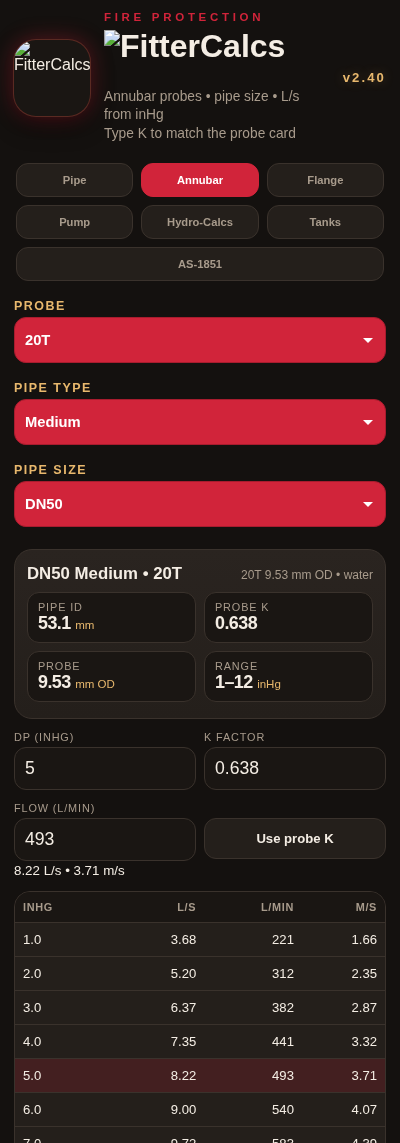
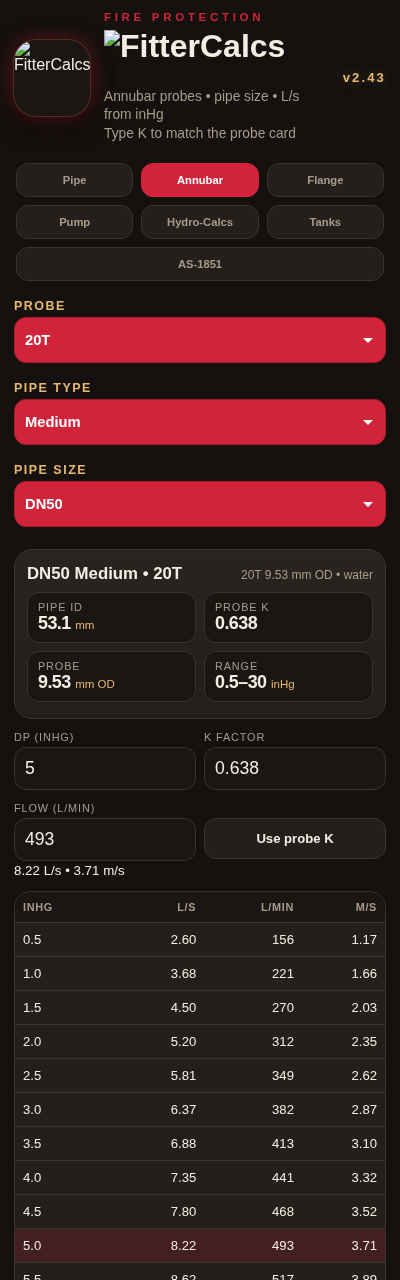
FitterCalcs 2.43

diff --git a/app/src/main/assets/index.html b/app/src/main/assets/index.html
@@ -880,13 +880,13 @@
         <div class="stat"><label>Pipe ID</label><b id="annuId"></b> <small>mm</small></div>
         <div class="stat"><label>Probe K</label><b id="annuKCalc"></b></div>
         <div class="stat"><label>Probe</label><b id="annuProbeOd">9.53</b> <small>mm OD</small></div>
-        <div class="stat"><label>Range</label><b>1–12</b> <small>inHg</small></div>
+        <div class="stat"><label>Range</label><b>0.5–30</b> <small>inHg</small></div>
       </div>
     </section>
     <div class="lookup">
       <div>
         <label for="inHg">DP (inHg)</label>
-        <input id="inHg" type="number" inputmode="decimal" min="1" max="12" step="1" value="5" />
+        <input id="inHg" type="number" inputmode="decimal" min="0.5" max="30" step="0.5" value="5" />
       </div>
       <div>
         <label for="annuKIn">K factor</label>
@@ -922,7 +922,7 @@
       K comes from the <strong>medium steel card Rev 03</strong>: DN50 0.638, DN65 0.617, DN80 0.665, DN90 0.661, DN100 0.672, DN125 0.671, DN150 0.706.
       Light, Heavy, SS 10S, SS 40S (ASME Sch 40 ID), and copper <strong>interpolate that K against mill ID</strong>. Sizes bigger than DN150 hold the DN150 K.
       <strong>3/8″</strong> still uses Diamond II 15/16 formula K. Type a K to match a different card; <strong>Use probe K</strong> puts the table/formula back.
-      Type <strong>flow (L/min)</strong> and the table highlights the next listed <strong>inHg</strong> up (1.73 → 2). Range is <strong>1–12 inHg</strong>. Type inHg to see the flow.
+      Type <strong>flow (L/min)</strong> and the table highlights the next <strong>0.5 inHg</strong> up (1.2 → 1.5). Range is <strong>0.5–30 inHg</strong>. Type inHg to see the flow.
       Steel IDs are <strong>AS 1074-1989 (R2018) Cl 2.3, Tables 2.1–2.3</strong> Light / Medium / Heavy. <strong>Use the laminated chart that shipped with the probe for a certified test.</strong>
     </p>
   </div>
@@ -1382,8 +1382,8 @@
 <script src="fan-calc.js"></script>
 <script src="fan-ui.js"></script>
 <script>
-const APP_VERSION = "2.42";
-const APP_BUILD = 53;
+const APP_VERSION = "2.43";
+const APP_BUILD = 54;
 const FAN_KEY = "fittercalcs-ft";
 function fanOn() {
   try { return localStorage.getItem(FAN_KEY) === "1"; } catch (e) { return false; }
@@ -3351,7 +3351,9 @@ const ANNU_DN_NPS = {
   "50": "2", "65": "2-1/2", "80": "3", "90": "3-1/2",
   "100": "4", "125": "5", "150": "6", "200": "8"
 };
-const ANNU_DP = [1, 2, 3, 4, 5, 6, 7, 8, 9, 10, 11, 12];
+const ANNU_DP_STEP = 0.5;
+const ANNU_DP_MAX = 30;
+const ANNU_DP = Array.from({ length: ANNU_DP_MAX / ANNU_DP_STEP }, (_, i) => (i + 1) * ANNU_DP_STEP);
 const ANNU_K_CARD = [
   [53.1, 0.638],
   [68.9, 0.617],
@@ -3433,11 +3435,16 @@ function inHgFromFlow(idMm, ls, kUsed) {
   return (x * x) / INHG_TO_INH2O;
 }
 function ceilAnnuDp(inHg) {
-  if (!Number.isFinite(inHg) || inHg <= 0) return ANNU_DP[0];
+  const min = ANNU_DP[0];
+  const max = ANNU_DP[ANNU_DP.length - 1];
+  if (!Number.isFinite(inHg) || inHg <= min) return min;
+  if (inHg >= max) return max;
+  const steps = Math.ceil((inHg - 1e-6) / ANNU_DP_STEP);
+  const snapped = steps * ANNU_DP_STEP;
   for (let i = 0; i < ANNU_DP.length; i++) {
-    if (ANNU_DP[i] + 1e-6 >= inHg) return ANNU_DP[i];
+    if (Math.abs(ANNU_DP[i] - snapped) < 1e-6) return ANNU_DP[i];
   }
-  return ANNU_DP[ANNU_DP.length - 1];
+  return max;
 }
 function currentAnnuId() {
   if (DATA[annuKind]) {
@@ -3513,6 +3520,10 @@ function renderAnnu() {
       <td class="${cls}">${r.ms.toFixed(2)}</td>
     </tr>`;
   }).join("");
+  if (annuFromFlow) {
+    const sel = document.querySelector("#annuRows tr.sel");
+    if (sel) sel.scrollIntoView({ block: "nearest" });
+  }
   paintMenu("annuProbeMenu");
   paintMenu("annuPipeMenu");
   paintMenu("annuSizeMenu");

diff --git a/index.html b/index.html
@@ -880,13 +880,13 @@
         <div class="stat"><label>Pipe ID</label><b id="annuId"></b> <small>mm</small></div>
         <div class="stat"><label>Probe K</label><b id="annuKCalc"></b></div>
         <div class="stat"><label>Probe</label><b id="annuProbeOd">9.53</b> <small>mm OD</small></div>
-        <div class="stat"><label>Range</label><b>1–12</b> <small>inHg</small></div>
+        <div class="stat"><label>Range</label><b>0.5–30</b> <small>inHg</small></div>
       </div>
     </section>
     <div class="lookup">
       <div>
         <label for="inHg">DP (inHg)</label>
-        <input id="inHg" type="number" inputmode="decimal" min="1" max="12" step="1" value="5" />
+        <input id="inHg" type="number" inputmode="decimal" min="0.5" max="30" step="0.5" value="5" />
       </div>
       <div>
         <label for="annuKIn">K factor</label>
@@ -922,7 +922,7 @@
       K comes from the <strong>medium steel card Rev 03</strong>: DN50 0.638, DN65 0.617, DN80 0.665, DN90 0.661, DN100 0.672, DN125 0.671, DN150 0.706.
       Light, Heavy, SS 10S, SS 40S (ASME Sch 40 ID), and copper <strong>interpolate that K against mill ID</strong>. Sizes bigger than DN150 hold the DN150 K.
       <strong>3/8″</strong> still uses Diamond II 15/16 formula K. Type a K to match a different card; <strong>Use probe K</strong> puts the table/formula back.
-      Type <strong>flow (L/min)</strong> and the table highlights the next listed <strong>inHg</strong> up (1.73 → 2). Range is <strong>1–12 inHg</strong>. Type inHg to see the flow.
+      Type <strong>flow (L/min)</strong> and the table highlights the next <strong>0.5 inHg</strong> up (1.2 → 1.5). Range is <strong>0.5–30 inHg</strong>. Type inHg to see the flow.
       Steel IDs are <strong>AS 1074-1989 (R2018) Cl 2.3, Tables 2.1–2.3</strong> Light / Medium / Heavy. <strong>Use the laminated chart that shipped with the probe for a certified test.</strong>
     </p>
   </div>
@@ -1382,8 +1382,8 @@
 <script src="fan-calc.js"></script>
 <script src="fan-ui.js"></script>
 <script>
-const APP_VERSION = "2.42";
-const APP_BUILD = 53;
+const APP_VERSION = "2.43";
+const APP_BUILD = 54;
 const FAN_KEY = "fittercalcs-ft";
 function fanOn() {
   try { return localStorage.getItem(FAN_KEY) === "1"; } catch (e) { return false; }
@@ -3351,7 +3351,9 @@ const ANNU_DN_NPS = {
   "50": "2", "65": "2-1/2", "80": "3", "90": "3-1/2",
   "100": "4", "125": "5", "150": "6", "200": "8"
 };
-const ANNU_DP = [1, 2, 3, 4, 5, 6, 7, 8, 9, 10, 11, 12];
+const ANNU_DP_STEP = 0.5;
+const ANNU_DP_MAX = 30;
+const ANNU_DP = Array.from({ length: ANNU_DP_MAX / ANNU_DP_STEP }, (_, i) => (i + 1) * ANNU_DP_STEP);
 const ANNU_K_CARD = [
   [53.1, 0.638],
   [68.9, 0.617],
@@ -3433,11 +3435,16 @@ function inHgFromFlow(idMm, ls, kUsed) {
   return (x * x) / INHG_TO_INH2O;
 }
 function ceilAnnuDp(inHg) {
-  if (!Number.isFinite(inHg) || inHg <= 0) return ANNU_DP[0];
+  const min = ANNU_DP[0];
+  const max = ANNU_DP[ANNU_DP.length - 1];
+  if (!Number.isFinite(inHg) || inHg <= min) return min;
+  if (inHg >= max) return max;
+  const steps = Math.ceil((inHg - 1e-6) / ANNU_DP_STEP);
+  const snapped = steps * ANNU_DP_STEP;
   for (let i = 0; i < ANNU_DP.length; i++) {
-    if (ANNU_DP[i] + 1e-6 >= inHg) return ANNU_DP[i];
+    if (Math.abs(ANNU_DP[i] - snapped) < 1e-6) return ANNU_DP[i];
   }
-  return ANNU_DP[ANNU_DP.length - 1];
+  return max;
 }
 function currentAnnuId() {
   if (DATA[annuKind]) {
@@ -3513,6 +3520,10 @@ function renderAnnu() {
       <td class="${cls}">${r.ms.toFixed(2)}</td>
     </tr>`;
   }).join("");
+  if (annuFromFlow) {
+    const sel = document.querySelector("#annuRows tr.sel");
+    if (sel) sel.scrollIntoView({ block: "nearest" });
+  }
   paintMenu("annuProbeMenu");
   paintMenu("annuPipeMenu");
   paintMenu("annuSizeMenu");

diff --git a/onlyfitters.py b/onlyfitters.py
@@ -17,7 +17,7 @@ from gi.repository import Gdk, GLib, Gtk, WebKit2
 
 APP_ID = "org.onlyfitters.app"
 APP_NAME = "FitterCalcs"
-APP_VERSION = "2.42"
+APP_VERSION = "2.43"
 APP_TITLE = "%s %s" % (APP_NAME, APP_VERSION)
 APP_DIR = Path(__file__).resolve().parent
 HTML = APP_DIR / "index.html"

diff --git a/desktop/fittercalcs.py b/desktop/fittercalcs.py
@@ -11,7 +11,7 @@ from pathlib import Path
 from urllib.parse import quote
 
 APP_NAME = "FitterCalcs"
-APP_VERSION = "2.42"
+APP_VERSION = "2.43"
 
 
 def app_dir():

diff --git a/README.md b/README.md
@@ -12,7 +12,7 @@
 </p>
 
 <p align="center">
-  <strong>Current version: 2.42</strong><br>
+  <strong>Current version: 2.43</strong><br>
   <a href="https://github.com/macski777/fittercalcs/releases/latest">Download FitterCalcs.apk</a>
   ·
   <a href="https://github.com/macski777/fittercalcs/releases/latest">Windows</a>
@@ -32,7 +32,7 @@ The launcher icon and the **FITTER / CALCS** wordmark use **Delta Corps Priest 1
 
 ## Install on Android
 
-1. Download [FitterCalcs.apk](https://github.com/macski777/fittercalcs/releases/download/v2.42/FitterCalcs.apk).
+1. Download [FitterCalcs.apk](https://github.com/macski777/fittercalcs/releases/download/v2.43/FitterCalcs.apk).
 2. Open the file on the phone.
 3. Allow install from this source if Android asks.
 4. Open **FitterCalcs**.
@@ -41,7 +41,7 @@ Needs Android 7 or newer.
 
 ## Install on Windows
 
-1. Download [FitterCalcs-Setup.exe](https://github.com/macski777/fittercalcs/releases/download/v2.42/FitterCalcs-Setup.exe).
+1. Download [FitterCalcs-Setup.exe](https://github.com/macski777/fittercalcs/releases/download/v2.43/FitterCalcs-Setup.exe).
 2. Double-click it. No admin, no wizard — it is a portable Windows app.
 3. Pin it to the taskbar or copy it to the Desktop if you want it handy.
 
@@ -49,7 +49,7 @@ Needs 64-bit Windows 10 or 11.
 
 ## Install on Linux
 
-1. Download [FitterCalcs-linux.tar.gz](https://github.com/macski777/fittercalcs/releases/download/v2.42/FitterCalcs-linux.tar.gz).
+1. Download [FitterCalcs-linux.tar.gz](https://github.com/macski777/fittercalcs/releases/download/v2.43/FitterCalcs-linux.tar.gz).
 2. Unpack it and run `./install.sh` (installs for your user only).
 3. Open **FitterCalcs** from the app menu, or run `fittercalcs`.
 
@@ -79,7 +79,7 @@ Phones on **2.17 or older** need a one-time install of 2.18 or later (USB or thi
 | Tab | What it does |
 | --- | --- |
 | **Pipe** | OD, wall, ID for AS 1074-1989 (R2018) Cl 2.3 Tables 2.1 / 2.2 / 2.3 Light / Medium / Heavy, SS 10S, SS 40S, CPVC. mm or inch. |
-| **Annubar** | Type L/min or inHg for 3/8", 20T, and 21T. Table is 1–12 inHg; highlights the next inHg up. Medium-steel card K; other walls interpolate by ID. |
+| **Annubar** | Type L/min or inHg for 3/8", 20T, and 21T. Table is 0.5–30 inHg in 0.5 steps; highlights the next 0.5 inHg up. Medium-steel card K; other walls interpolate by ID. |
 | **Flange** | AS 2129-2000 Tables D/E/F/H, ANSI 150/300, PN16 — OD, PCD, bolts, holes. |
 | **Pump** | kPa vs L/s curve, autosave by job. Green **PASS** / red **FAIL** vs nominated duty. Email cites AS 2941-2013 Cl 10.3, AS 2419.1:2021 Cl 4.2.7.1.2, AS 2118.1:2017 Cl 14.9, AS 1851-2012 Table 3.4.3. |
 | **Hydro-Calcs** | Hazen-Williams friction + static rise. Green **PASS** / red **FAIL** on typical 5 m/s (AS 2118.1-1999 Cl 12.14 is 10 m/s pipe / 6 m/s valves). Autosave by site / job. **Save to device** writes the A4 PNG. Email cites AS 1074 Cl 2.3, AS 2118.1:2017 Cl 14.10, AS 2419.1:2021 Cl 4.2.7.1.2. |
@@ -94,7 +94,7 @@ AS 1074-1989 (R2018) Cl 2.3 Tables 2.1 / 2.2 / 2.3 Light, Medium, and Heavy stee
 
 ### Annubar
 
-3/8", 20T, and 21T. Type **L/min** and the table (1–12 inHg) highlights the next listed **inHg** up (1.73 → 2). Type inHg to see the flow. 20T/21T K is from the medium steel card; other walls interpolate by ID.
+3/8", 20T, and 21T. Type **L/min** and the table (0.5–30 inHg, steps of 0.5) highlights the next **0.5 inHg** up (1.2 → 1.5). Type inHg to see the flow. 20T/21T K is from the medium steel card; other walls interpolate by ID.
 
 <p align="center"><img src="docs/annubar.png" width="320" alt="Annubar tab — L/min to inHg"></p>
 
